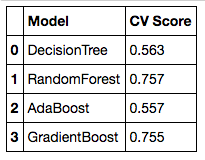
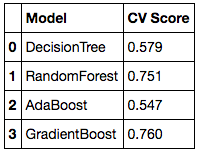
readd

diff --git a/_posts/2016-7-21-MovieRatings .md b/_posts/2016-7-21-MovieRatings .md
@@ -84,7 +84,7 @@ are less likel to be receive votes in the first place. An older movie that's eit
 
 We can now run our models. I chose to fit four regression models (Decision Tree, Random Forest, AdaBoost, and Gradient Boosting) and compare to see which perofrms best.
 After splitting the data into training and testing data, fitting the models, running the predictions, the CrossVal scores can be calculated. We can also see which
-features are most important in predicting the IMDb rating. Below are CrossVal scores for each model. We can see the GradientBoosting model performed best with a CV score of 0.755.
+features are most important in predicting the IMDb rating. Below are CrossVal scores for each model. We can see the GradientBoosting model performed best with a CV score of 0.76.
 
 ![functions](/images/Movies/8.png/)
 
